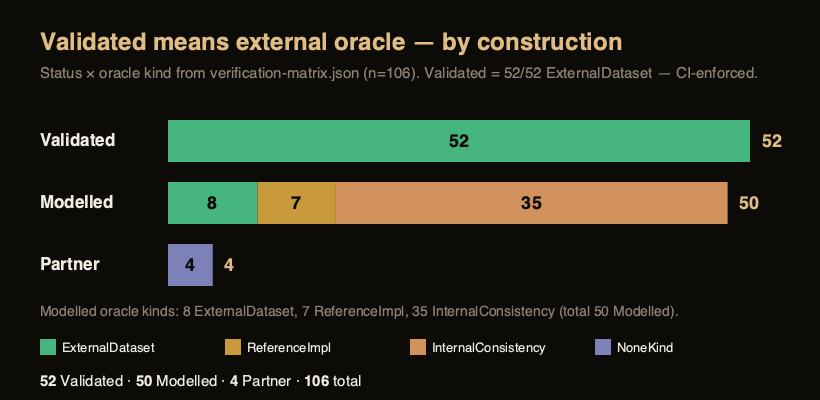
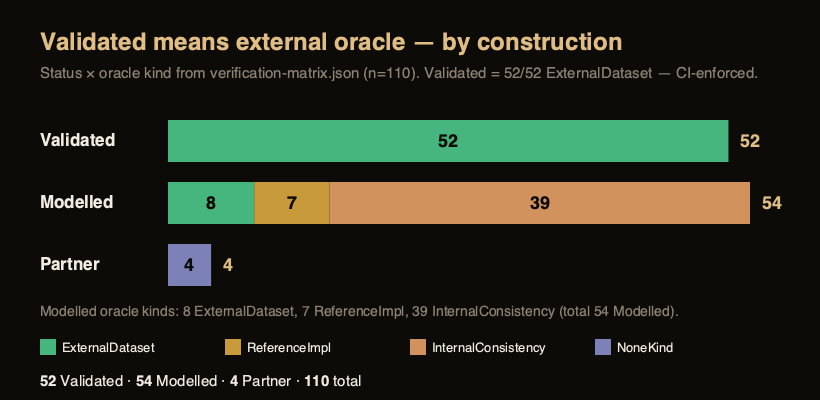
docs(verification): +4 Modelled TIB rows, matrix 106 to 110 (52 Validated / 54 Modelled / 4 Partner) (CTI P4)

diff --git a/src/verification.rs b/src/verification.rs
@@ -748,6 +748,43 @@ pub fn verification_matrix() -> Vec<VerificationItem> {
             oracle_kind: InternalConsistency,
             status: Modelled,
         },
+        // ── Timing Integrity Benchmark (CTI P4) — honesty-immune, no accuracy claim ──
+        VerificationItem {
+            requirement: "Timing-integrity conformance benchmark — Stanford integrity-diagram epoch classifier",
+            capability: "TIB Stanford integrity-diagram epoch classification (nominal / unavailable / MI / HMI)",
+            module: "src/benchmark/stanford.rs",
+            tests: "src/benchmark/stanford.rs::tests (four regions + inclusive boundaries + |error| + PL>AL unavailability); tests/tib_scorer_reference.rs (classification counts vs independent numpy on a fixed synthetic set)",
+            oracle: "Independent numpy re-implementation of the four-region rule (scripts/gen_tib_scorer_reference.py) on the identical sample set; method Cited from the Stanford–ESA integrity diagram (Tossaint et al., ION GNSS 2007) and RTCA DO-229 WAAS MOPS. NOT an ExternalDataset accuracy oracle — the benchmark is honesty-immune.",
+            oracle_kind: InternalConsistency,
+            status: Modelled,
+        },
+        VerificationItem {
+            requirement: "Timing-integrity conformance benchmark — integrity-coverage scorer",
+            capability: "TIB integrity-coverage scoring (HMI/MI/availability rates + overbound-coverage verdict)",
+            module: "src/benchmark/coverage.rs",
+            tests: "src/benchmark/coverage.rs::tests (clean/under-bounded/all-unavailable/empty); tests/tib_scorer_reference.rs (counts + rates + coverage_ok vs numpy to 1e-12)",
+            oracle: "Independent numpy region re-count in tests/fixtures/tib/reference.json; scorer machinery cross-check only, no accuracy claim.",
+            oracle_kind: InternalConsistency,
+            status: Modelled,
+        },
+        VerificationItem {
+            requirement: "Timing-integrity conformance benchmark — fault catalog (parametric generators)",
+            capability: "TIB fault menu (domain-divergence, clock-slam, holdover-coast, static/incremental/symmetric/asymmetric delay, replay-within-freshness, path-selective, k-of-N quorum)",
+            module: "src/benchmark/faults.rs",
+            tests: "src/benchmark/faults.rs::tests (offset profiles, monotone coast, undetectable-set flagging, max_offset consistency, exactly two undetectable classes)",
+            oracle: "Representative parametric fault generators (Modelled); the undetectable set (symmetric delay, replay-within-freshness) is Cited from Mizrahi RFC 7384 and Narula & Humphreys (IEEE JSTSP 2018). No external oracle — a fault catalog makes no measured claim.",
+            oracle_kind: InternalConsistency,
+            status: Modelled,
+        },
+        VerificationItem {
+            requirement: "Timing-integrity conformance benchmark — undetectable-absorption verdict",
+            capability: "TIB undetectable-absorption verdict (symmetric/replay must be absorbed by the PL, never reported detected)",
+            module: "src/benchmark/scorecard.rs",
+            tests: "src/benchmark/scorecard.rs::tests (reference PL absorbs; broken PL unabsorbed-never-detected; detectable coverage verdict; the honesty property that no coverage/detection verdict is reachable for an undetectable scenario)",
+            oracle: "Property check that the Verdict enum structurally cannot report an undetectable fault as detected (Mizrahi RFC 7384); absorbed ⟺ PL ≥ offset. No accuracy oracle.",
+            oracle_kind: InternalConsistency,
+            status: Modelled,
+        },
         // ── Honestly partner-owned gaps (no code, by design) ──────────────────
         VerificationItem {
             requirement: "Spacecraft bus engineering (AOCS/thermal/structures/propulsion/power)",

diff --git a/docs/MODELLED-RATIONALE.md b/docs/MODELLED-RATIONALE.md
@@ -30,6 +30,10 @@ These capabilities are implemented from published or first-principles physics wi
 | Frugal cost-per-coverage / ROI framing | Cost-per-percent-coverage + coverage-per-euro ROI over the constellation sizing engine; per-satellite cost is a caller-sourced low/nominal/high bracket (no fabricated prices) | InternalConsistency | checked against its own closed-form / analytic identity — catches transcription and coefficient errors, but is not an external oracle — Closed-form cost arithmetic vs hand-derived values; an economic FRAMING of a modelled coverage figure, not a quote or validated cost model | frugal (over walker) | frugal::tests (hand-derived cost-per-coverage 48/96=0.5, ROI ratio 2.667, bracket-ordering + zero-coverage guards) |
 | Detection-miss integrity impact (context-aware HPL/VPL vs alert limit) | Maps an undetected spoof/jam bias to effective error → Stanford region (available/unavailable/MI/HMI) against context-specific HAL/VAL (open-sky vs urban) | ReferenceImpl | checked against a separate implementation in this same codebase — independent of the unit under test, but not externally authoritative — Composes the externally-validated RAIM Stanford classification (raim::classify_stanford); the detection-miss→AL mapping itself is modelled, not a certified integrity allocation | integrity_impact (over raim) | integrity_impact::tests (same miss flips Available→MI→HMI as the context tightens; conservative-PL→Unavailable; per-axis HMI; input guards) |
 | CAI cited error-model parameter sheet (13503) | Bracketed (best/nominal/conservative) cold-atom-interferometer performance — bias instability, velocity/angle random walk, scale-factor stability, interrogation-limited sample rate, fringe-ambiguity dynamic range — each citation-traceable; feeds QuantumNavBudget without modelling hardware | InternalConsistency | checked against its own closed-form / analytic identity — catches transcription and coefficient errors, but is not an external oracle — Internal consistency: the cited VRW bracket cross-checked against CaiAccelerometer::accel_asd physics + raw dynamic range computed from the fringe-ambiguity limit; numbers are MODELLED literature-survey brackets (needs_source_confirmation), no device validated, no validation halo | inertial::cai_params (over inertial::quantum_imu) | inertial::cai_params::tests (physics VRW lands inside the cited VRW bracket at all 3 levels; raw fringe-ambiguity range computed from k_eff·T²; conservative budget drifts more than best; every bracket sourced + confirmation-flagged; bracket-ordering guards) |
+| Timing-integrity conformance benchmark — Stanford integrity-diagram epoch classifier | TIB Stanford integrity-diagram epoch classification (nominal / unavailable / MI / HMI) | InternalConsistency | checked against its own closed-form / analytic identity — catches transcription and coefficient errors, but is not an external oracle — Independent numpy re-implementation of the four-region rule (scripts/gen_tib_scorer_reference.py) on the identical sample set; method Cited from the Stanford–ESA integrity diagram (Tossaint et al., ION GNSS 2007) and RTCA DO-229 WAAS MOPS. NOT an ExternalDataset accuracy oracle — the benchmark is honesty-immune. | src/benchmark/stanford.rs | src/benchmark/stanford.rs::tests (four regions + inclusive boundaries + |error| + PL>AL unavailability); tests/tib_scorer_reference.rs (classification counts vs independent numpy on a fixed synthetic set) |
+| Timing-integrity conformance benchmark — integrity-coverage scorer | TIB integrity-coverage scoring (HMI/MI/availability rates + overbound-coverage verdict) | InternalConsistency | checked against its own closed-form / analytic identity — catches transcription and coefficient errors, but is not an external oracle — Independent numpy region re-count in tests/fixtures/tib/reference.json; scorer machinery cross-check only, no accuracy claim. | src/benchmark/coverage.rs | src/benchmark/coverage.rs::tests (clean/under-bounded/all-unavailable/empty); tests/tib_scorer_reference.rs (counts + rates + coverage_ok vs numpy to 1e-12) |
+| Timing-integrity conformance benchmark — fault catalog (parametric generators) | TIB fault menu (domain-divergence, clock-slam, holdover-coast, static/incremental/symmetric/asymmetric delay, replay-within-freshness, path-selective, k-of-N quorum) | InternalConsistency | checked against its own closed-form / analytic identity — catches transcription and coefficient errors, but is not an external oracle — Representative parametric fault generators (Modelled); the undetectable set (symmetric delay, replay-within-freshness) is Cited from Mizrahi RFC 7384 and Narula & Humphreys (IEEE JSTSP 2018). No external oracle — a fault catalog makes no measured claim. | src/benchmark/faults.rs | src/benchmark/faults.rs::tests (offset profiles, monotone coast, undetectable-set flagging, max_offset consistency, exactly two undetectable classes) |
+| Timing-integrity conformance benchmark — undetectable-absorption verdict | TIB undetectable-absorption verdict (symmetric/replay must be absorbed by the PL, never reported detected) | InternalConsistency | checked against its own closed-form / analytic identity — catches transcription and coefficient errors, but is not an external oracle — Property check that the Verdict enum structurally cannot report an undetectable fault as detected (Mizrahi RFC 7384); absorbed ⟺ PL ≥ offset. No accuracy oracle. | src/benchmark/scorecard.rs | src/benchmark/scorecard.rs::tests (reference PL absorbs; broken PL unabsorbed-never-detected; detectable coverage verdict; the honesty property that no coverage/detection verdict is reachable for an undetectable scenario) |
 | Lunar geodetic VLBI | Near-field VLBI delay for an Earth baseline observing a lunar beacon + partials | ReferenceImpl | checked against a separate implementation in this same codebase — independent of the unit under test, but not externally authoritative — Plane-wave delta_dor (same-codebase) in the far-field limit; finite-difference partials | lunar_vlbi | lunar_vlbi::tests (far-field limit matches delta_dor; near-field correction; FD partials) |
 | Lunar joint multi-technique OD + clock | Batch fusion of VLBI + lunar-local range + inter-sat range to recover station+constellation positions and clocks | ReferenceImpl | checked against a separate implementation in this same codebase — independent of the unit under test, but not externally authoritative — Recovery of an injected simulated truth + NEES covariance consistency (internal); the underlying batch-LS estimator primitive is additionally cross-checked against Orekit 12.2 / Hipparchus Levenberg-Marquardt on identical observations (ReferenceImpl). The joint multi-technique solve as a whole stays MODELLED — the frame/VLBI sub-models are validated separately | lunar_combination | lunar_combination::tests (recovers simulated truth; VLBI restores station 3-D observability; deterministic); tests/lunar_joint_multi_technique_od_reference.rs (6 geometries × 16 params, 31 obs each, vs Orekit 12.2 / Hipparchus Levenberg-Marquardt on identical observations; recovered state worst |Δ| 1.4e-8 m) |
 | Lunar absolute-station observability (datum defect) | Fisher-information observability of the joint lunar solve: without Earth baselines the absolute-frame datum lies in the null space of HᵀWH (station position unobservable); ≥3 baselines restore full rank and bound the station Cramér–Rao error, which the estimator attains | InternalConsistency | checked against its own closed-form / analytic identity — catches transcription and coefficient errors, but is not an external oracle — Analytic datum-defect structure — the unobservable absolute-frame mode lies in the null space of the Fisher information (closed-form), the rank threshold matches the published 3-station design rationale, and the estimator attains the resulting CRLB in Monte-Carlo. The lunar geometry itself is a representative network (not a flown ephemeris), so the row stays MODELLED; the underlying FIM/CRLB engine is checked against the Kay (1993) closed forms separately | lunar_combination (lunar_observability) + fim | lunar_combination::tests (rank-deficient without Earth baselines; three baselines restore full rank — the 3-station threshold from the information rank, not solve error; station CRLB attained by the estimator at efficiency 0.98; CRLB tightens monotonically with baselines) |
@@ -57,4 +61,4 @@ These capabilities are implemented from published or first-principles physics wi
 | Composed timing PL — P0-seeded holdover ride-through | PL(τ)=max(TPL_handover,HPL(τ)); lower-semicontinuous PL(0+)≥PL(0−); K(IR/2) running-max; τ/τ³/τ⁵ phase exponents | InternalConsistency | checked against its own closed-form / analytic identity — catches transcription and coefficient errors, but is not an external oracle — Property tests (monotonicity, no-drop-at-handover) + exponent lint against holdover::coast_phase_variance | src/integrity/composed_pl.rs | integrity::composed_pl::tests (monotone, P0-floor, K(IR/2), exponents, lower-semicontinuity) |
 | Composed timing PL — LIL a.s. envelope (impossibility + consistency) | No finite worst-case holdover (Brownian sup diverges); IR-allocated HPL consistent with Hartman-Wintner envelope as IR→0 | InternalConsistency | checked against its own closed-form / analytic identity — catches transcription and coefficient errors, but is not an external oracle — Closed-form a.s. envelope √(2Dt·lnln t) identity + HPL-dominance check; Baweja arXiv:2606.24210 impossibility seam | src/integrity/lil_envelope.rs | integrity::lil_envelope::tests (divergence, threshold, IR-tightening dominance) |
 
-50 capabilities labelled MODELLED.
+54 capabilities labelled MODELLED.

diff --git a/docs/VERIFICATION-MATRIX.md b/docs/VERIFICATION-MATRIX.md
@@ -2,7 +2,7 @@
 
 <!-- Generated by `cargo run --bin gen_validation_artifacts` from src/verification.rs; pinned by tests/verification_artifacts_doc_sync.rs. Do not edit by hand. -->
 
-The complete, machine-checked evidence ledger: **106 rows — 52 VALIDATED, 50 MODELLED, 4 PARTNER**. A row may be VALIDATED only with an independent external oracle (the matrix invariant tests enforce this). The same data, with clickable per-row links to each test, module and committed fixture, is the *Validation ledger* on https://kshana.dev. See [MODELLED-RATIONALE.md](MODELLED-RATIONALE.md) for why each Modelled row is not externally validated.
+The complete, machine-checked evidence ledger: **110 rows — 52 VALIDATED, 54 MODELLED, 4 PARTNER**. A row may be VALIDATED only with an independent external oracle (the matrix invariant tests enforce this). The same data, with clickable per-row links to each test, module and committed fixture, is the *Validation ledger* on https://kshana.dev. See [MODELLED-RATIONALE.md](MODELLED-RATIONALE.md) for why each Modelled row is not externally validated.
 
 | Requirement | Capability | Module | Tests | Oracle | Status |
 |---|---|---|---|---|---|
@@ -77,6 +77,10 @@ The complete, machine-checked evidence ledger: **106 rows — 52 VALIDATED, 50 M
 | Frugal cost-per-coverage / ROI framing | Cost-per-percent-coverage + coverage-per-euro ROI over the constellation sizing engine; per-satellite cost is a caller-sourced low/nominal/high bracket (no fabricated prices) | frugal (over walker) | frugal::tests (hand-derived cost-per-coverage 48/96=0.5, ROI ratio 2.667, bracket-ordering + zero-coverage guards) | Closed-form cost arithmetic vs hand-derived values; an economic FRAMING of a modelled coverage figure, not a quote or validated cost model | MODELLED |
 | Detection-miss integrity impact (context-aware HPL/VPL vs alert limit) | Maps an undetected spoof/jam bias to effective error → Stanford region (available/unavailable/MI/HMI) against context-specific HAL/VAL (open-sky vs urban) | integrity_impact (over raim) | integrity_impact::tests (same miss flips Available→MI→HMI as the context tightens; conservative-PL→Unavailable; per-axis HMI; input guards) | Composes the externally-validated RAIM Stanford classification (raim::classify_stanford); the detection-miss→AL mapping itself is modelled, not a certified integrity allocation | MODELLED |
 | CAI cited error-model parameter sheet (13503) | Bracketed (best/nominal/conservative) cold-atom-interferometer performance — bias instability, velocity/angle random walk, scale-factor stability, interrogation-limited sample rate, fringe-ambiguity dynamic range — each citation-traceable; feeds QuantumNavBudget without modelling hardware | inertial::cai_params (over inertial::quantum_imu) | inertial::cai_params::tests (physics VRW lands inside the cited VRW bracket at all 3 levels; raw fringe-ambiguity range computed from k_eff·T²; conservative budget drifts more than best; every bracket sourced + confirmation-flagged; bracket-ordering guards) | Internal consistency: the cited VRW bracket cross-checked against CaiAccelerometer::accel_asd physics + raw dynamic range computed from the fringe-ambiguity limit; numbers are MODELLED literature-survey brackets (needs_source_confirmation), no device validated, no validation halo | MODELLED |
+| Timing-integrity conformance benchmark — Stanford integrity-diagram epoch classifier | TIB Stanford integrity-diagram epoch classification (nominal / unavailable / MI / HMI) | src/benchmark/stanford.rs | src/benchmark/stanford.rs::tests (four regions + inclusive boundaries + |error| + PL>AL unavailability); tests/tib_scorer_reference.rs (classification counts vs independent numpy on a fixed synthetic set) | Independent numpy re-implementation of the four-region rule (scripts/gen_tib_scorer_reference.py) on the identical sample set; method Cited from the Stanford–ESA integrity diagram (Tossaint et al., ION GNSS 2007) and RTCA DO-229 WAAS MOPS. NOT an ExternalDataset accuracy oracle — the benchmark is honesty-immune. | MODELLED |
+| Timing-integrity conformance benchmark — integrity-coverage scorer | TIB integrity-coverage scoring (HMI/MI/availability rates + overbound-coverage verdict) | src/benchmark/coverage.rs | src/benchmark/coverage.rs::tests (clean/under-bounded/all-unavailable/empty); tests/tib_scorer_reference.rs (counts + rates + coverage_ok vs numpy to 1e-12) | Independent numpy region re-count in tests/fixtures/tib/reference.json; scorer machinery cross-check only, no accuracy claim. | MODELLED |
+| Timing-integrity conformance benchmark — fault catalog (parametric generators) | TIB fault menu (domain-divergence, clock-slam, holdover-coast, static/incremental/symmetric/asymmetric delay, replay-within-freshness, path-selective, k-of-N quorum) | src/benchmark/faults.rs | src/benchmark/faults.rs::tests (offset profiles, monotone coast, undetectable-set flagging, max_offset consistency, exactly two undetectable classes) | Representative parametric fault generators (Modelled); the undetectable set (symmetric delay, replay-within-freshness) is Cited from Mizrahi RFC 7384 and Narula & Humphreys (IEEE JSTSP 2018). No external oracle — a fault catalog makes no measured claim. | MODELLED |
+| Timing-integrity conformance benchmark — undetectable-absorption verdict | TIB undetectable-absorption verdict (symmetric/replay must be absorbed by the PL, never reported detected) | src/benchmark/scorecard.rs | src/benchmark/scorecard.rs::tests (reference PL absorbs; broken PL unabsorbed-never-detected; detectable coverage verdict; the honesty property that no coverage/detection verdict is reachable for an undetectable scenario) | Property check that the Verdict enum structurally cannot report an undetectable fault as detected (Mizrahi RFC 7384); absorbed ⟺ PL ≥ offset. No accuracy oracle. | MODELLED |
 | Spacecraft bus engineering (AOCS/thermal/structures/propulsion/power) | Not provided — Kshana is a navigation-performance simulator, not a bus house | — | — | — | PARTNER |
 | Navigation RF payload & antenna hardware design | Not provided — Kshana models signal performance, not payload/antenna hardware | — | — | — | PARTNER |
 | Quantum payload hardware design & maturation | Not provided — performance models only; cold-atom/clock hardware is a partner's | — | — | — | PARTNER |
@@ -113,4 +117,4 @@ The complete, machine-checked evidence ledger: **106 rows — 52 VALIDATED, 50 M
 | Composed timing PL — holdover envelope coverage, multi-year regime (tau>=90d) | Running-max envelope overbound-covers (zero-piercing) a real metrological series at every tested lag tau>=90d on a disjoint segment; short-tau (<=30d) is a disclosed Modelled boundary | src/integrity/composed_pl.rs | tests/cti_holdover_coverage_reference.rs | BIPM Circular-T [UTC-UTC(USNO)] 5-day series MJD 56074-60429 (872 pts, webtai API); disjoint fit/test, multi-year zero-piercing coverage | VALIDATED |
 | Composed timing PL — LIL a.s. envelope (impossibility + consistency) | No finite worst-case holdover (Brownian sup diverges); IR-allocated HPL consistent with Hartman-Wintner envelope as IR→0 | src/integrity/lil_envelope.rs | integrity::lil_envelope::tests (divergence, threshold, IR-tightening dominance) | Closed-form a.s. envelope √(2Dt·lnln t) identity + HPL-dominance check; Baweja arXiv:2606.24210 impossibility seam | MODELLED |
 
-106 rows: 52 externally validated, 50 modelled, 4 partner-owned.
+110 rows: 52 externally validated, 54 modelled, 4 partner-owned.

diff --git a/README.md b/README.md
@@ -14,7 +14,7 @@
 <p align="center">
   <a href="https://ashfordeou.github.io/kshana/"><img src="https://img.shields.io/badge/playground-try%20in%20browser-c79e63" alt="Live playground — run in your browser, no install"></a>
   <a href="tests/sgp4_verification.rs"><img src="https://img.shields.io/badge/SGP4-666%2F666%20AIAA%20vectors%20%C2%B7%204.12mm-3fb950" alt="SGP4 validated against all 666 AIAA 2006-6753 vectors, worst 4.12 mm"></a>
-  <a href="#validation-at-a-glance"><img src="https://img.shields.io/badge/validated-52%20external%20oracles-3fb950" alt="52 capabilities validated against independent external oracles (real data, independent libraries, or published reference vectors); 50 more are honestly labelled MODELLED and 4 are PARTNER-owned — see Validation at a glance"></a>
+  <a href="#validation-at-a-glance"><img src="https://img.shields.io/badge/validated-52%20external%20oracles-3fb950" alt="52 capabilities validated against independent external oracles (real data, independent libraries, or published reference vectors); 54 more are honestly labelled MODELLED and 4 are PARTNER-owned — see Validation at a glance"></a>
   <a href="https://github.com/ashfordeOU/kshana/actions/workflows/ci.yml"><img src="https://img.shields.io/badge/coverage-~96%25%20line-3fb950" alt="~96% line coverage on src/ (cargo-tarpaulin LLVM engine), gated at 85% in CI"></a>
   <a href="https://github.com/ashfordeOU/kshana/actions/workflows/ci.yml"><img src="https://github.com/ashfordeOU/kshana/actions/workflows/ci.yml/badge.svg" alt="CI"></a>
   <a href="https://sonarcloud.io/summary/overall?id=ashfordeOU_kshana"><img src="https://sonarcloud.io/api/project_badges/measure?project=ashfordeOU_kshana&metric=security_rating" alt="SonarQube Cloud Security Rating"></a>
@@ -49,7 +49,7 @@ navigation. Every result is reproducible from `scenario + seed + engine version`
 and every sensor parameter is traceable to a published source — consolidated in one
 citable table in [`docs/PROVENANCE.md`](docs/PROVENANCE.md).
 
-<p align="center"><em><strong>Validated, not asserted.</strong> &nbsp;666/666 AIAA SGP4 vectors to <strong>4.12&nbsp;mm</strong> · Cowell force model <strong>0.08&nbsp;m</strong> vs Orekit&nbsp;12.2 · Galileo <strong>0.61&nbsp;m</strong> / Swarm-A <strong>0.10&nbsp;m</strong> vs real ESA precise ephemerides · GCRS→ITRS bit-for-bit vs SOFA/ERFA · ML metrics exact vs scikit-learn · <strong>52 of 106</strong> capabilities validated against independent external oracles; 50 honestly labelled Modelled.</em></p>
+<p align="center"><em><strong>Validated, not asserted.</strong> &nbsp;666/666 AIAA SGP4 vectors to <strong>4.12&nbsp;mm</strong> · Cowell force model <strong>0.08&nbsp;m</strong> vs Orekit&nbsp;12.2 · Galileo <strong>0.61&nbsp;m</strong> / Swarm-A <strong>0.10&nbsp;m</strong> vs real ESA precise ephemerides · GCRS→ITRS bit-for-bit vs SOFA/ERFA · ML metrics exact vs scikit-learn · <strong>52 of 110</strong> capabilities validated against independent external oracles; 54 honestly labelled Modelled.</em></p>
 
 <p align="center">
   <img src="docs/assets/diagrams/system-overview.png" alt="Kshana system overview: five front doors (CLI, Python wheel, WebAssembly playground, MCP server, JetBrains plugin) converge on a single api::run_toml dispatch over 44 scenario kinds, through the engine (shared core, sensor packs and astrodynamics, integrity/fusion/lunar/deep-space/resilience), to a reproducible result.json + chart.svg" width="840">
@@ -71,8 +71,8 @@ Each row is checked against an **independent external oracle** (real dataset, in
 | ✅ | Fisher information · CRLB · observability | eigh / CRLB / DOP to **1e-9** | NumPy 2.4.1 (LAPACK) + Kay (1993) closed forms |
 
 <p align="center">
-  <img src="docs/assets/figures/validation-breakdown.png" alt="Verification status across all 106 capabilities: 52 Validated (checked vs external oracle), 50 Modelled, 4 Partner-owned" width="780">
-  <br><sub>52 Validated · 50 Modelled · 4 Partner — <a href="docs/assets/figures/validation-breakdown.svg">SVG</a></sub>
+  <img src="docs/assets/figures/validation-breakdown.png" alt="Verification status across all 110 capabilities: 52 Validated (checked vs external oracle), 54 Modelled, 4 Partner-owned" width="780">
+  <br><sub>52 Validated · 54 Modelled · 4 Partner — <a href="docs/assets/figures/validation-breakdown.svg">SVG</a></sub>
 </p>
 
 *Free and open source under the GNU AGPL-3.0 — with a commercial licence available
@@ -1016,7 +1016,7 @@ kshana/
 ### Validation at a glance
 
 <p align="center">
-  <img src="docs/assets/diagrams/validation-provenance.png" alt="How a capability earns its label: Requirement maps to a module in src, to a test in tests, to an external oracle (real dataset, independent reference implementation, or published vectors), to a status — with a CI-enforced guard that no capability can be Validated without an external oracle. Live counts: 52 Validated, 50 Modelled, 4 Partner, 106 total" width="900">
+  <img src="docs/assets/diagrams/validation-provenance.png" alt="How a capability earns its label: Requirement maps to a module in src, to a test in tests, to an external oracle (real dataset, independent reference implementation, or published vectors), to a status — with a CI-enforced guard that no capability can be Validated without an external oracle. Live counts: 52 Validated, 54 Modelled, 4 Partner, 110 total" width="900">
   <br><sub>How a capability earns its label — the CI-enforced invariant: no external oracle ⇒ cannot be Validated · <a href="docs/assets/diagrams/validation-provenance.svg">SVG</a></sub>
 </p>
 
@@ -1028,7 +1028,7 @@ kshana/
 </p>
 
 Every row is enforced by a named test in CI. This table is a **curated highlight**;
-the full machine-checked matrix is **106 rows — 52 VALIDATED, 50 MODELLED, 4 PARTNER**
+the full machine-checked matrix is **110 rows — 52 VALIDATED, 54 MODELLED, 4 PARTNER**
 (`src/verification.rs`), with the complete evidence (and what is honestly *not* yet
 validated) in [`docs/VALIDATION.md`](docs/VALIDATION.md) and the per-release
 [`kshana-validation-summary.html`](https://github.com/ashfordeOU/kshana/releases)

diff --git a/README.crates.md b/README.crates.md
@@ -14,7 +14,7 @@
 
 <p align="center">
   <a href="https://github.com/AshfordeOU/kshana/blob/main/tests/sgp4_verification.rs"><img src="https://img.shields.io/badge/SGP4-666%2F666%20AIAA%20vectors%20%C2%B7%204.12mm-3fb950" alt="SGP4 validated against all 666 AIAA 2006-6753 vectors, worst 4.12 mm"></a>
-  <a href="https://github.com/AshfordeOU/kshana#validation-at-a-glance"><img src="https://img.shields.io/badge/validated-52%20external%20oracles-3fb950" alt="52 of 106 capabilities validated against independent external oracles"></a>
+  <a href="https://github.com/AshfordeOU/kshana#validation-at-a-glance"><img src="https://img.shields.io/badge/validated-52%20external%20oracles-3fb950" alt="52 of 110 capabilities validated against independent external oracles"></a>
   <a href="https://github.com/AshfordeOU/kshana/actions/workflows/ci.yml"><img src="https://img.shields.io/badge/coverage-~96%25%20line-3fb950" alt="~96% line coverage, gated at 85% in CI"></a>
   <a href="https://github.com/AshfordeOU/kshana/releases"><img src="https://img.shields.io/badge/release-v0.23.0-c79e63" alt="Release v0.23.0"></a>
   <a href="https://ashforde.org"><img src="https://img.shields.io/badge/playground-try%20in%20browser-c79e63" alt="Live playground — run in your browser, no install"></a>
@@ -33,8 +33,8 @@ traceable to a published source.
 > ***Validated, not asserted.*** 666/666 AIAA SGP4 vectors to **4.12 mm** · Cowell
 > force model **0.08 m** vs Orekit 12.2 · Galileo **0.61 m** / Swarm-A **0.10 m** vs
 > real ESA precise ephemerides · GCRS→ITRS bit-for-bit vs SOFA/ERFA · ML metrics exact
-> vs scikit-learn · **52 of 106** capabilities validated against independent external
-> oracles; 50 honestly labelled Modelled, 4 partner-owned.
+> vs scikit-learn · **52 of 110** capabilities validated against independent external
+> oracles; 54 honestly labelled Modelled, 4 partner-owned.
 
 <p align="center">
   <img src="https://raw.githubusercontent.com/AshfordeOU/kshana/main/docs/assets/diagrams/system-overview.png" alt="Kshana system overview: five front doors (CLI, Python wheel, WebAssembly playground, MCP server, JetBrains plugin) converge on a single api::run_toml dispatch, through the engine, to a reproducible result.json + chart.svg" width="840">
@@ -55,7 +55,7 @@ independent reference implementation, or published reference vectors) and re-che
 | ✅ | GNSS DOP · ML detector metrics | to **1e-6** · to **1e-9** | gnss_lib_py · scikit-learn |
 
 <p align="center">
-  <img src="https://raw.githubusercontent.com/AshfordeOU/kshana/main/docs/assets/figures/validation-breakdown.png" alt="Verification status across all 106 capabilities: 52 Validated, 50 Modelled, 4 Partner-owned" width="780">
+  <img src="https://raw.githubusercontent.com/AshfordeOU/kshana/main/docs/assets/figures/validation-breakdown.png" alt="Verification status across all 110 capabilities: 52 Validated, 54 Modelled, 4 Partner-owned" width="780">
 </p>
 
 ## Install

diff --git a/README.pypi.md b/README.pypi.md
@@ -14,7 +14,7 @@
 
 <p align="center">
   <a href="https://github.com/AshfordeOU/kshana/blob/main/tests/sgp4_verification.rs"><img src="https://img.shields.io/badge/SGP4-666%2F666%20AIAA%20vectors%20%C2%B7%204.12mm-3fb950" alt="SGP4 validated against all 666 AIAA 2006-6753 vectors, worst 4.12 mm"></a>
-  <a href="https://github.com/AshfordeOU/kshana#validation-at-a-glance"><img src="https://img.shields.io/badge/validated-52%20external%20oracles-3fb950" alt="52 of 106 capabilities validated against independent external oracles"></a>
+  <a href="https://github.com/AshfordeOU/kshana#validation-at-a-glance"><img src="https://img.shields.io/badge/validated-52%20external%20oracles-3fb950" alt="52 of 110 capabilities validated against independent external oracles"></a>
   <a href="https://github.com/AshfordeOU/kshana/actions/workflows/ci.yml"><img src="https://img.shields.io/badge/coverage-~96%25%20line-3fb950" alt="~96% line coverage, gated at 85% in CI"></a>
   <a href="https://github.com/AshfordeOU/kshana/releases"><img src="https://img.shields.io/badge/release-v0.23.0-c79e63" alt="Release v0.23.0"></a>
   <a href="https://ashforde.org"><img src="https://img.shields.io/badge/playground-try%20in%20browser-c79e63" alt="Live playground — run in your browser, no install"></a>
@@ -34,8 +34,8 @@ published source.
 > ***Validated, not asserted.*** 666/666 AIAA SGP4 vectors to **4.12 mm** · Cowell
 > force model **0.08 m** vs Orekit 12.2 · Galileo **0.61 m** / Swarm-A **0.10 m** vs
 > real ESA precise ephemerides · GCRS→ITRS bit-for-bit vs SOFA/ERFA · ML metrics exact
-> vs scikit-learn · **52 of 106** capabilities validated against independent external
-> oracles; 50 honestly labelled Modelled, 4 partner-owned.
+> vs scikit-learn · **52 of 110** capabilities validated against independent external
+> oracles; 54 honestly labelled Modelled, 4 partner-owned.
 
 <p align="center">
   <img src="https://raw.githubusercontent.com/AshfordeOU/kshana/main/docs/assets/diagrams/system-overview.png" alt="Kshana system overview: five front doors (CLI, Python wheel, WebAssembly playground, MCP server, JetBrains plugin) converge on a single api::run_toml dispatch, through the engine, to a reproducible result.json + chart.svg" width="840">
@@ -56,7 +56,7 @@ independent reference implementation, or published reference vectors) and re-che
 | ✅ | GNSS DOP · ML detector metrics | to **1e-6** · to **1e-9** | gnss_lib_py · scikit-learn |
 
 <p align="center">
-  <img src="https://raw.githubusercontent.com/AshfordeOU/kshana/main/docs/assets/figures/validation-breakdown.png" alt="Verification status across all 106 capabilities: 52 Validated, 50 Modelled, 4 Partner-owned" width="780">
+  <img src="https://raw.githubusercontent.com/AshfordeOU/kshana/main/docs/assets/figures/validation-breakdown.png" alt="Verification status across all 110 capabilities: 52 Validated, 54 Modelled, 4 Partner-owned" width="780">
 </p>
 
 ## Install

diff --git a/README.npm.md b/README.npm.md
@@ -15,7 +15,7 @@
 
 <p align="center">
   <a href="https://github.com/AshfordeOU/kshana/blob/main/tests/sgp4_verification.rs"><img src="https://img.shields.io/badge/SGP4-666%2F666%20AIAA%20vectors%20%C2%B7%204.12mm-3fb950" alt="SGP4 validated against all 666 AIAA 2006-6753 vectors, worst 4.12 mm"></a>
-  <a href="https://github.com/AshfordeOU/kshana#validation-at-a-glance"><img src="https://img.shields.io/badge/validated-52%20external%20oracles-3fb950" alt="52 of 106 capabilities validated against independent external oracles"></a>
+  <a href="https://github.com/AshfordeOU/kshana#validation-at-a-glance"><img src="https://img.shields.io/badge/validated-52%20external%20oracles-3fb950" alt="52 of 110 capabilities validated against independent external oracles"></a>
   <a href="https://github.com/AshfordeOU/kshana/releases"><img src="https://img.shields.io/badge/release-v0.23.0-c79e63" alt="Release v0.23.0"></a>
   <a href="https://ashforde.org"><img src="https://img.shields.io/badge/playground-try%20in%20browser-c79e63" alt="Live playground — run in your browser, no install"></a>
   <a href="https://github.com/AshfordeOU/kshana/blob/main/LICENSE"><img src="https://img.shields.io/badge/License-AGPL_v3-blue.svg" alt="License: AGPL-3.0-only"></a>
@@ -32,8 +32,8 @@ parameter is traceable to a published source.
 > ***Validated, not asserted.*** 666/666 AIAA SGP4 vectors to **4.12 mm** · Cowell
 > force model **0.08 m** vs Orekit 12.2 · Galileo **0.61 m** / Swarm-A **0.10 m** vs
 > real ESA precise ephemerides · GCRS→ITRS bit-for-bit vs SOFA/ERFA · ML metrics exact
-> vs scikit-learn · **52 of 106** capabilities validated against independent external
-> oracles; 50 honestly labelled Modelled, 4 partner-owned.
+> vs scikit-learn · **52 of 110** capabilities validated against independent external
+> oracles; 54 honestly labelled Modelled, 4 partner-owned.
 
 <p align="center">
   <img src="https://raw.githubusercontent.com/AshfordeOU/kshana/main/docs/assets/diagrams/system-overview.png" alt="Kshana system overview: five front doors (CLI, Python wheel, WebAssembly playground, MCP server, JetBrains plugin) converge on a single api::run_toml dispatch, through the engine, to a reproducible result.json + chart.svg" width="840">
@@ -51,7 +51,7 @@ parameter is traceable to a published source.
 | ✅ | GNSS DOP · ML detector metrics | to **1e-6** · to **1e-9** | gnss_lib_py · scikit-learn |
 
 <p align="center">
-  <img src="https://raw.githubusercontent.com/AshfordeOU/kshana/main/docs/assets/figures/validation-breakdown.png" alt="Verification status across all 106 capabilities: 52 Validated, 50 Modelled, 4 Partner-owned" width="780">
+  <img src="https://raw.githubusercontent.com/AshfordeOU/kshana/main/docs/assets/figures/validation-breakdown.png" alt="Verification status across all 110 capabilities: 52 Validated, 54 Modelled, 4 Partner-owned" width="780">
 </p>
 
 ## Install
